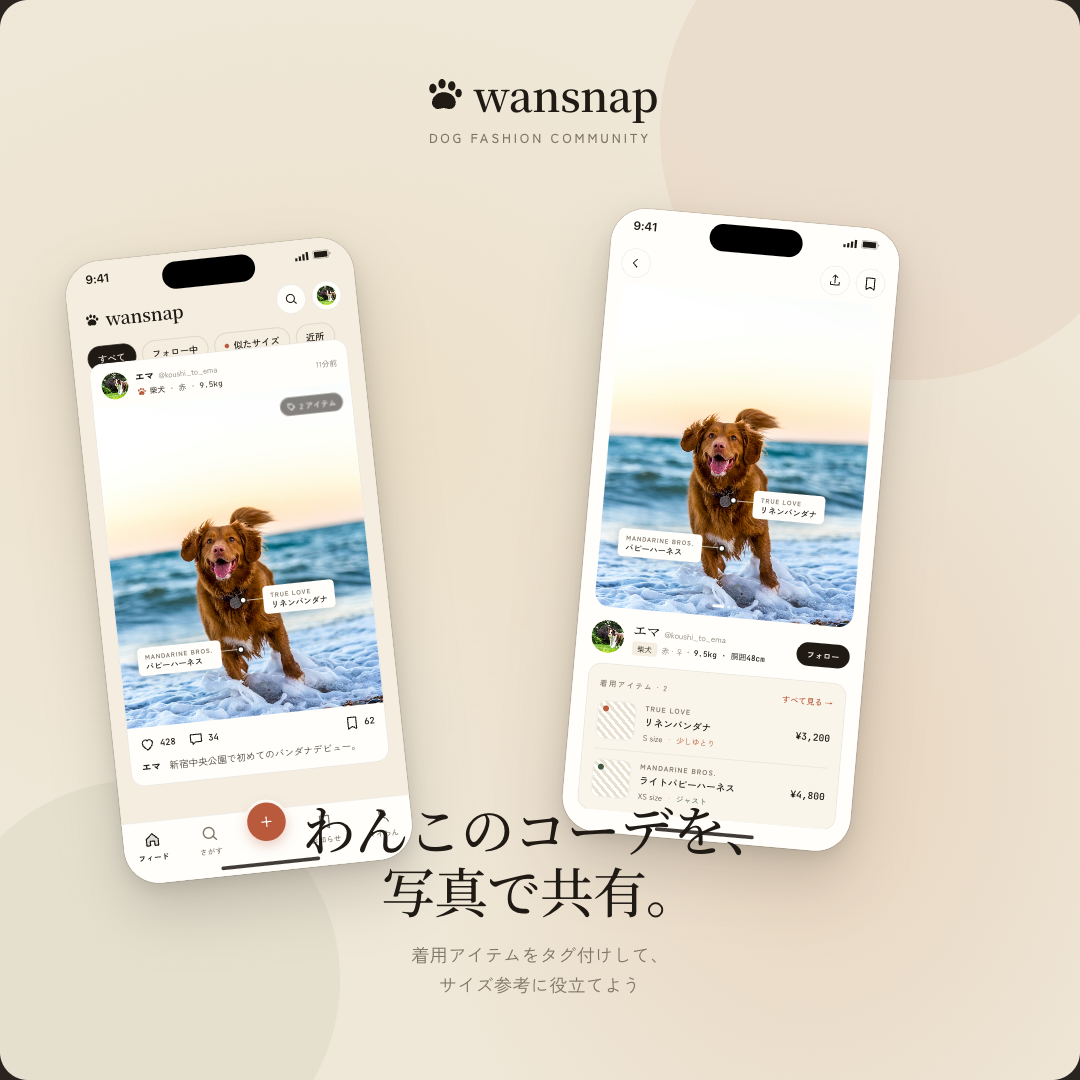
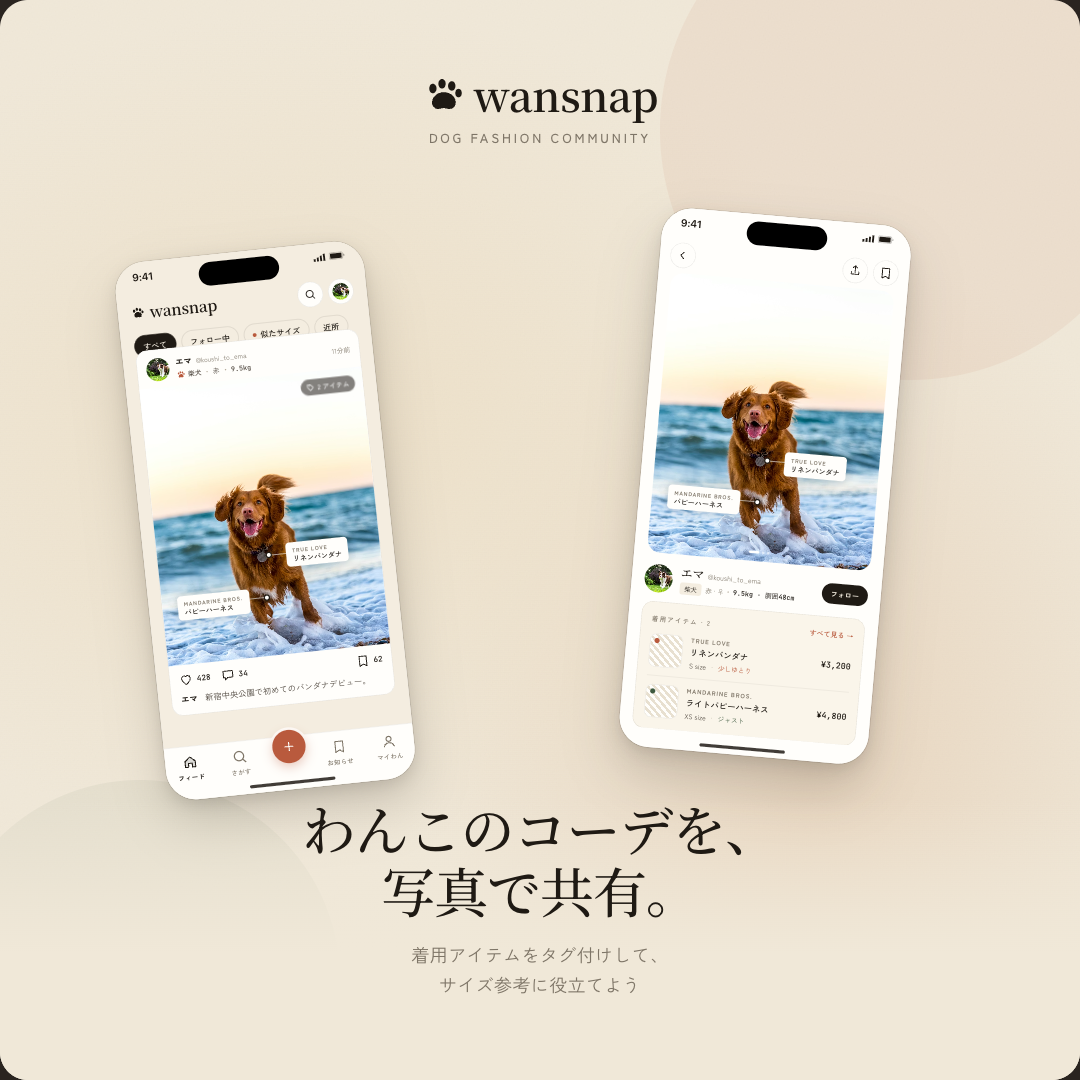
fix(design): スマホ縮小・中央寄せ・テキスト可読性を改善

Changed region(s): [[0.0611, 0.2139, 0.3972, 0.8556], [0.5194, 0.1833, 0.8556, 0.825]]

diff --git a/design/promo.html b/design/promo.html
@@ -392,11 +392,11 @@ body {
     </div>
 
     <!-- ── Two phones ── -->
-    <div style="position:absolute;top:200px;left:50%;transform:translateX(-50%);width:820px;height:620px">
+    <div style="position:absolute;top:200px;left:50%;transform:translateX(calc(-50% + 50px));width:820px;height:620px">
 
       <!-- Phone 1: Home feed (left, rotated) -->
       <div style="position:absolute;left:20px;top:40px;transform:rotate(-6deg);transform-origin:bottom center">
-        <div class="phone" style="transform:scale(0.74);transform-origin:top left">
+        <div class="phone" style="transform:scale(0.64);transform-origin:top left">
           <div class="phone-dyn-island"></div>
           <div class="screen screen-cream">
             <!-- status bar -->
@@ -532,7 +532,7 @@ body {
 
       <!-- Phone 2: Detail screen (right, rotated opposite) -->
       <div style="position:absolute;right:20px;top:20px;transform:rotate(5deg);transform-origin:bottom center">
-        <div class="phone" style="transform:scale(0.74);transform-origin:top left">
+        <div class="phone" style="transform:scale(0.64);transform-origin:top left">
           <div class="phone-dyn-island"></div>
           <div class="screen screen-paper">
             <!-- status bar -->
@@ -643,8 +643,11 @@ body {
 
     </div><!-- /phones -->
 
+    <!-- gradient fade so text reads clearly over phones -->
+    <div style="position:absolute;bottom:0;left:0;right:0;height:280px;background:linear-gradient(to bottom,transparent,#F0E8D8 55%);pointer-events:none;z-index:6"></div>
+
     <!-- ── Bottom copy ── -->
-    <div style="position:absolute;bottom:80px;left:50%;transform:translateX(-50%);text-align:center;width:900px">
+    <div style="position:absolute;bottom:80px;left:50%;transform:translateX(-50%);text-align:center;width:900px;z-index:7">
       <div style="font-family:'Noto Serif JP',serif;font-size:54px;font-weight:500;color:var(--ink);letter-spacing:-0.02em;line-height:1.15">
         わんこのコーデを、<br>写真で共有。
       </div>
@@ -719,9 +722,9 @@ body {
     </div>
 
     <!-- RIGHT: phone -->
-    <div style="flex-shrink:0;padding-right:60px;display:flex;align-items:center">
+    <div style="flex-shrink:0;padding:70px 60px 0 0">
       <div style="transform:rotate(4deg)">
-        <div class="phone" style="transform:scale(0.6);transform-origin:top left">
+        <div class="phone" style="transform:scale(0.56);transform-origin:top left">
           <div class="phone-dyn-island"></div>
           <div class="screen screen-cream">
             <div class="status-bar">
